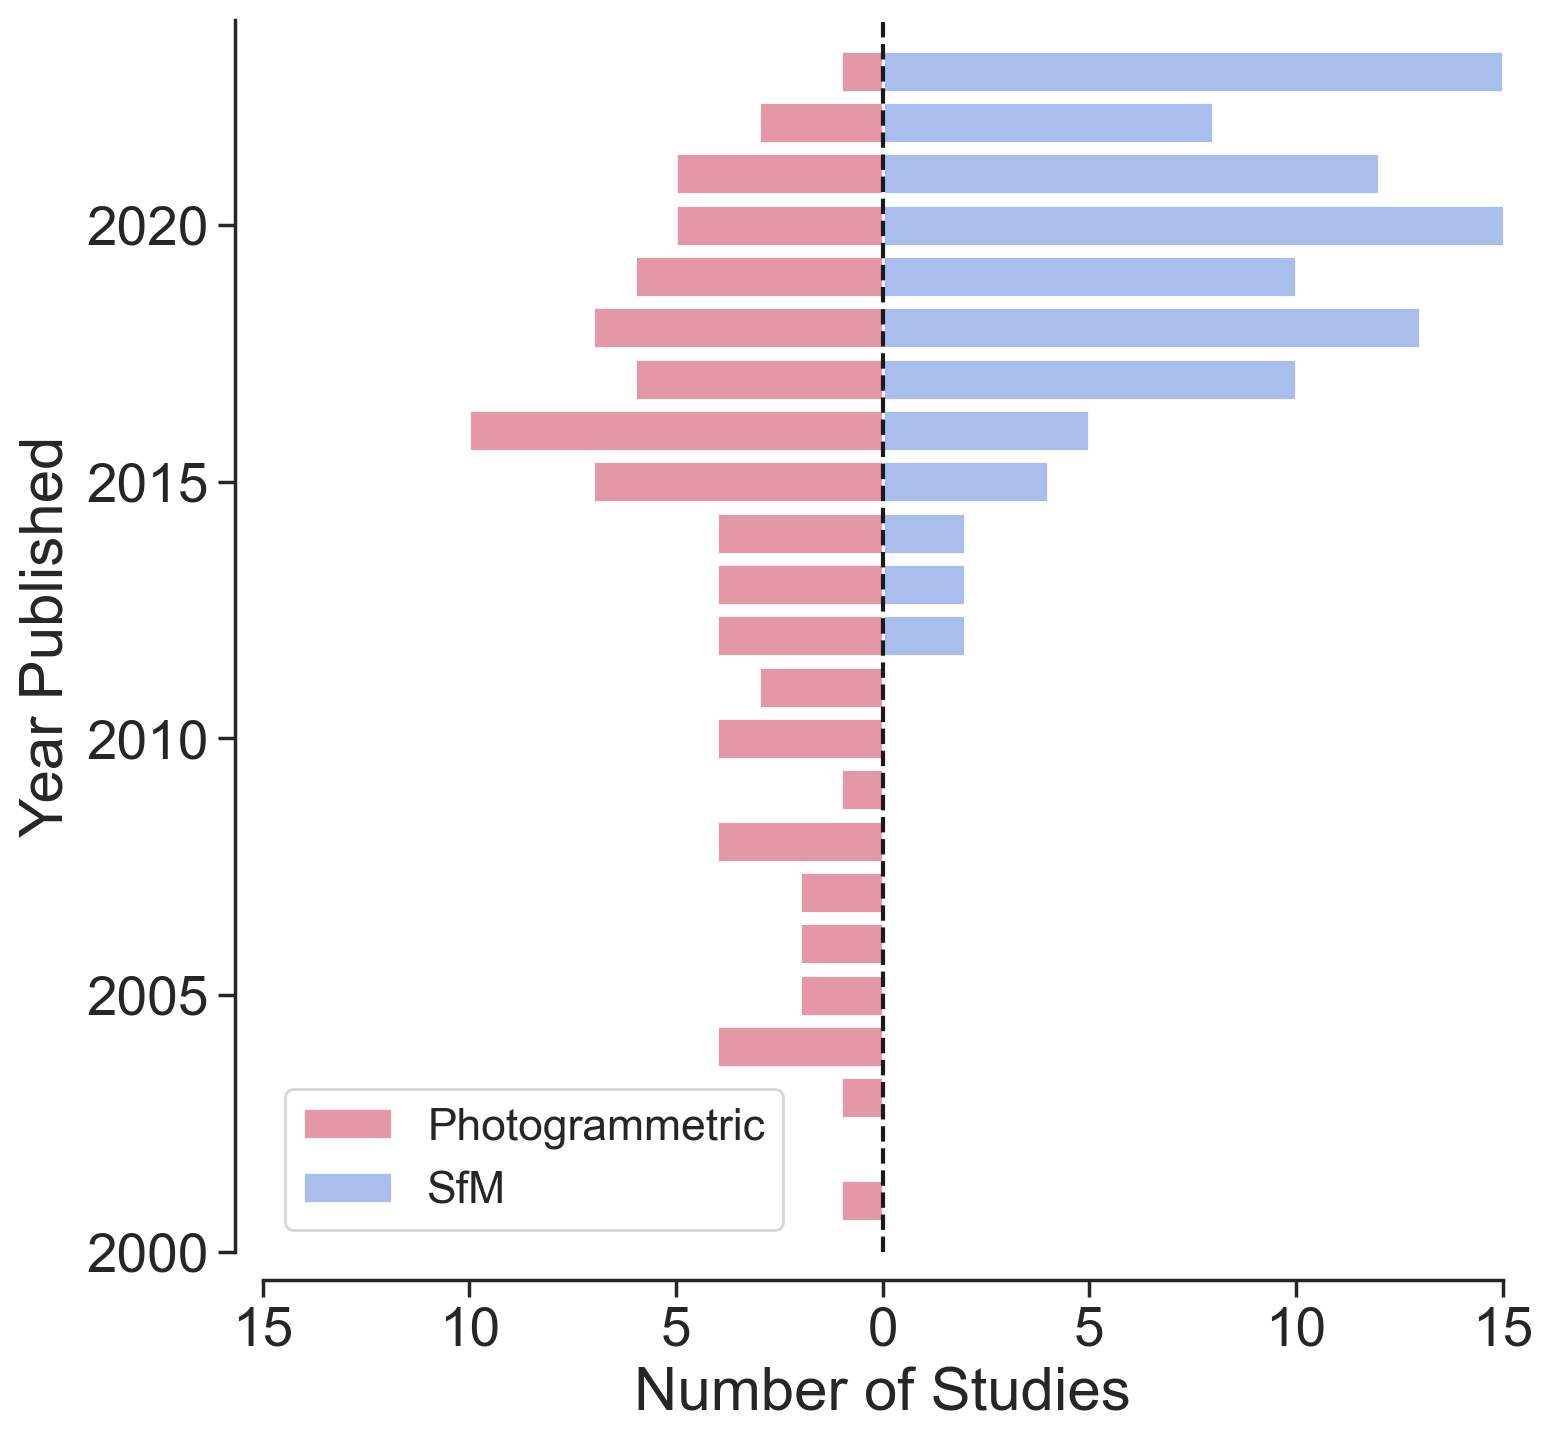
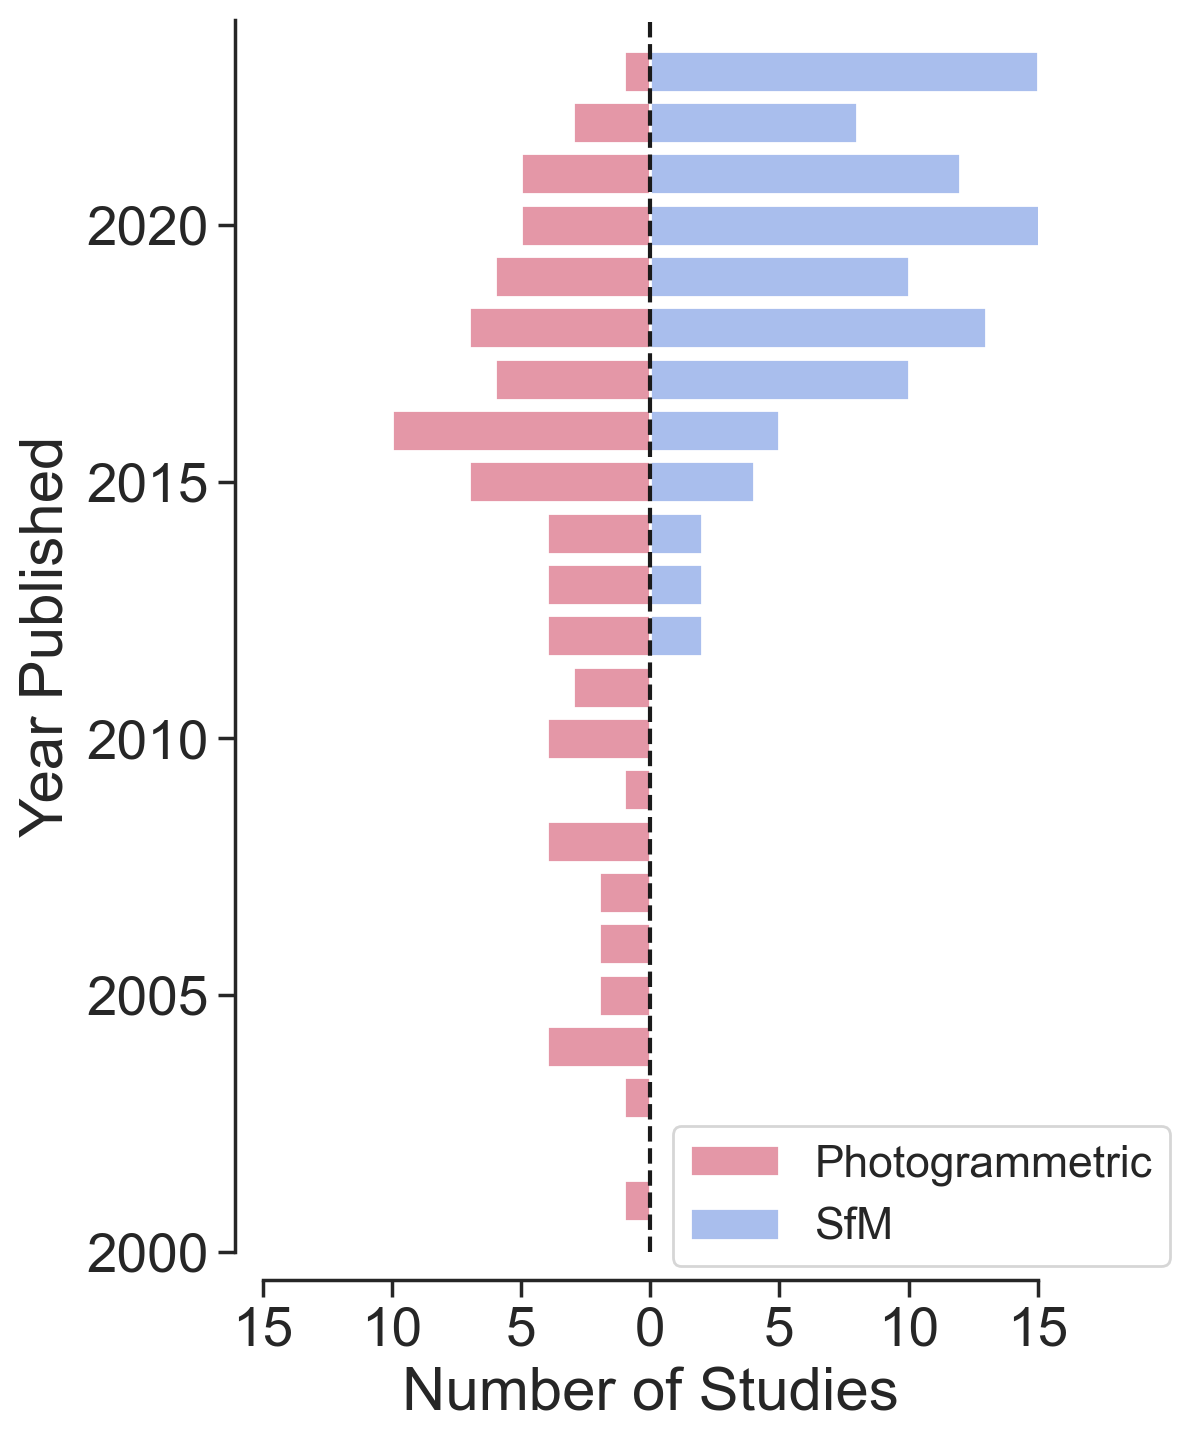
make figure narrower, move legend

diff --git a/scripts/Fig13_SoftwareInset.py b/scripts/Fig13_SoftwareInset.py
@@ -39,7 +39,7 @@ counts = pd.concat([pcounts.reset_index(), scounts.reset_index()], ignore_index=
 sns.set_theme(font_scale=1.8, style='white')
 sns.set_style('ticks')  # white style with tick marks
 
-fig, ax = plt.subplots(1, 1, figsize=(8, 8))
+fig, ax = plt.subplots(1, 1, figsize=(5, 8))
 ax = sns.barplot(data=counts, x='count', y='Year',
                  hue='method', palette=['#E497A7', '#A9BEED'], orient='horizontal',
                  dodge=False, native_scale=True, ax=ax, saturation=1)
@@ -57,7 +57,7 @@ ax.set_xticklabels([15, 10, 5, 0, 5, 10, 15])
 ax.set_xlim(-15, 15)
 
 # re-make the legend with no title
-ax.legend(fontsize=16)
+ax.legend(fontsize=16, bbox_to_anchor=(0.5, 0.12))
 
 sns.despine(offset=10, trim=False)
 
